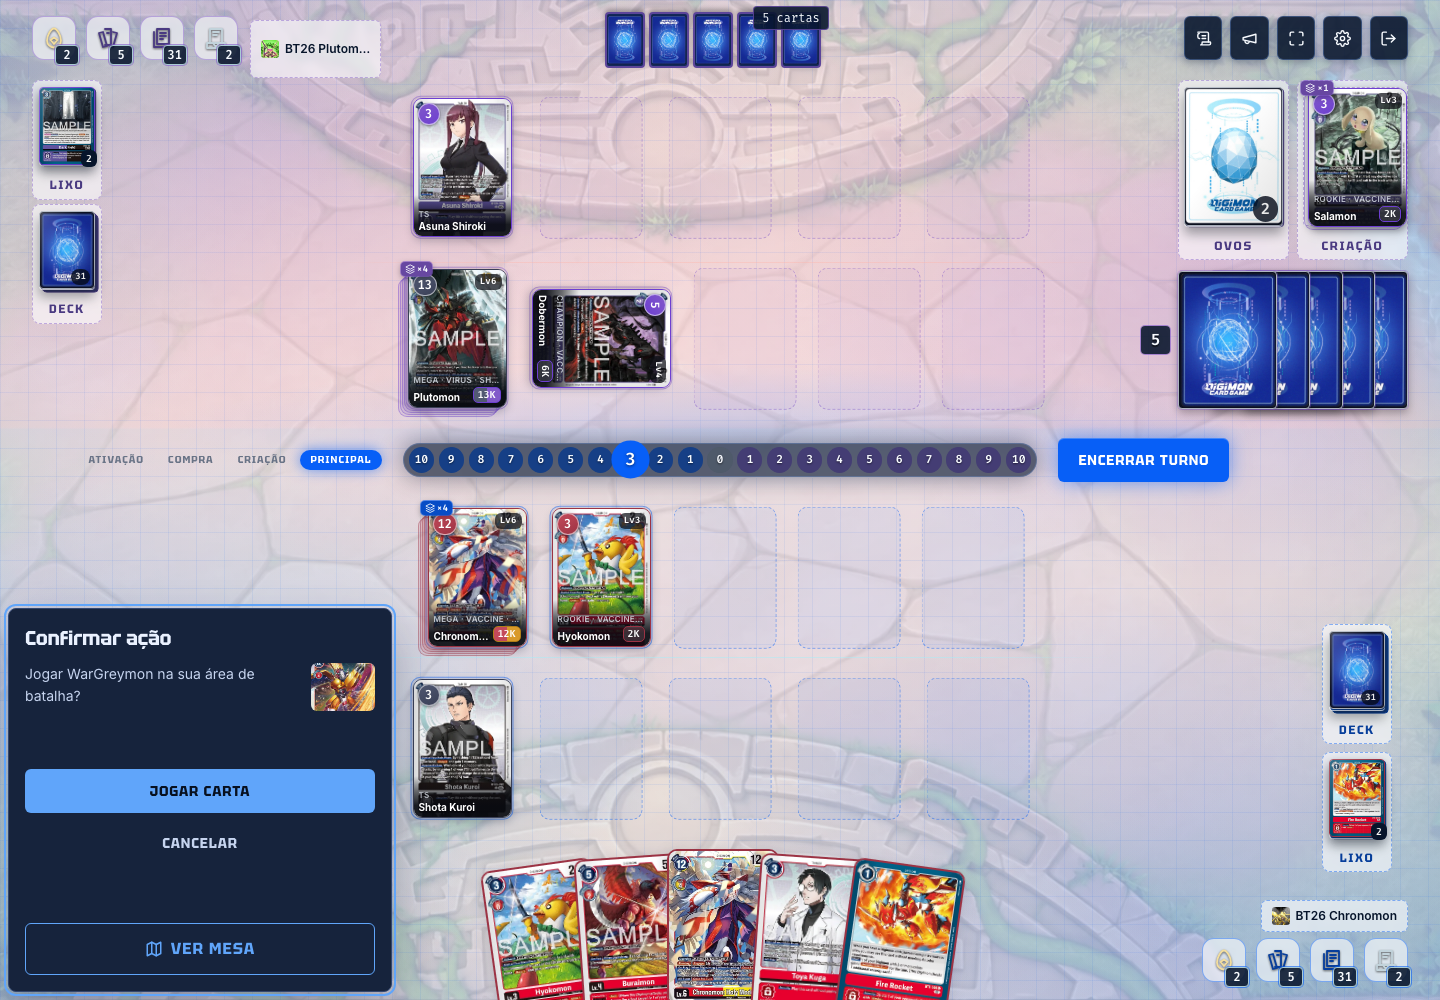
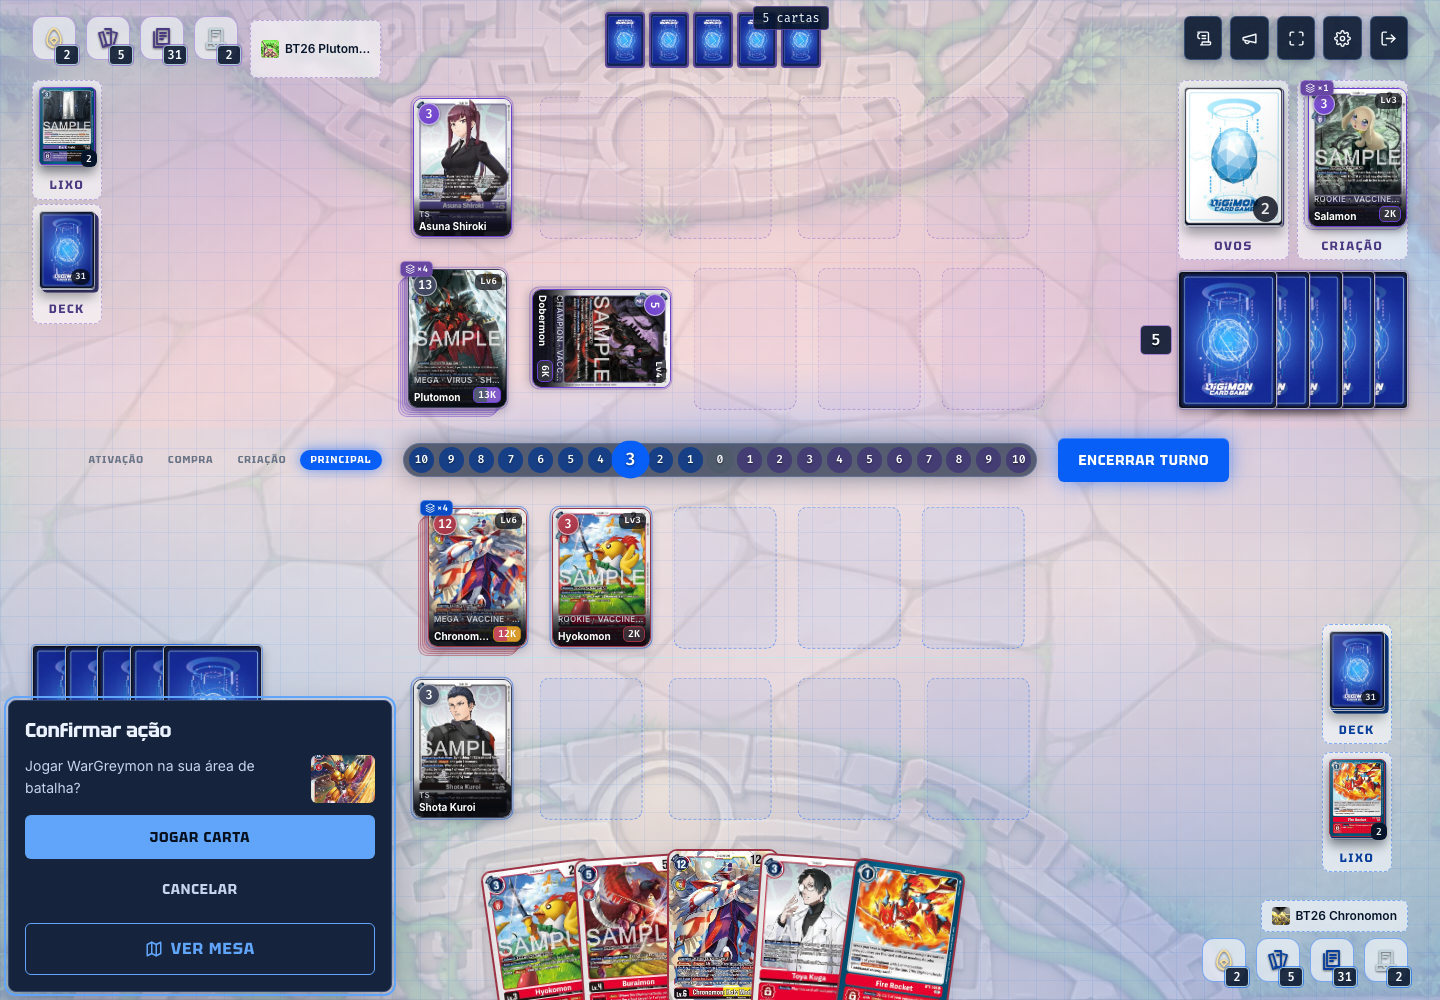
fix: fit action confirmation panels to their content
- Remove fixed height and distributed gaps while retaining viewport limits.

- Verify desktop, tablet and mobile layout and refresh modal gallery previews.

diff --git a/apps/web/e2e/mobile-prompt-layout.spec.ts b/apps/web/e2e/mobile-prompt-layout.spec.ts
@@ -54,6 +54,23 @@ class MobilePromptPreview {
 }
 
 for (const viewport of [
+  { width: 390, height: 844 },
+  { width: 720, height: 972 },
+  { width: 1440, height: 1000 },
+]) {
+  test(`action confirmation fits its content at ${viewport.width}x${viewport.height}`, async ({ page }) => {
+    await page.setViewportSize(viewport);
+    const panel = await new MobilePromptPreview(page).open("confirm-action", "en");
+    const header = (await panel.locator(".action-confirmation__header").boundingBox())!;
+    const actions = (await panel.locator(".game-actions-row").boundingBox())!;
+    const board = (await panel.getByRole("button", { name: "View board", exact: true }).boundingBox())!;
+    expect(actions.y - (header.y + header.height)).toBeLessThanOrEqual(16);
+    expect(board.y - (actions.y + actions.height)).toBeLessThanOrEqual(16);
+    expect(await panel.evaluate((element) => element.scrollHeight - element.clientHeight)).toBeLessThanOrEqual(1);
+  });
+}
+
+for (const viewport of [
   { width: 320, height: 740 },
   { width: 390, height: 844 },
   { width: 720, height: 972 },

diff --git a/apps/web/src/game/overlay/effectPromptLayout.css b/apps/web/src/game/overlay/effectPromptLayout.css
@@ -718,13 +718,15 @@ body:has([data-prompt-surface]:not([hidden] *), .mulligan-sheet) .game-battle-sc
   padding-bottom: 0;
 }
 @media (width >= 768px) and (height >= 520px) {
-  .game-modal__panel.decision-overlay.effect-prompt-family[data-prompt-surface="left"] {
+  .game-modal__panel.decision-overlay.effect-prompt-family[data-prompt-surface="left"],
+  .game-modal__panel.action-confirmation.effect-prompt-family[data-prompt-surface="left"] {
     max-height: calc(100dvh - var(--ds-space-4)) !important;
   }
 }
 
 .game-modal__panel.action-confirmation.effect-prompt-family[data-prompt-surface] {
-  justify-content: space-between;
+  height: auto !important;
+  justify-content: flex-start;
 }
 .game-modal__panel.action-confirmation.effect-prompt-family[data-prompt-surface] > * {
   flex-shrink: 0;
